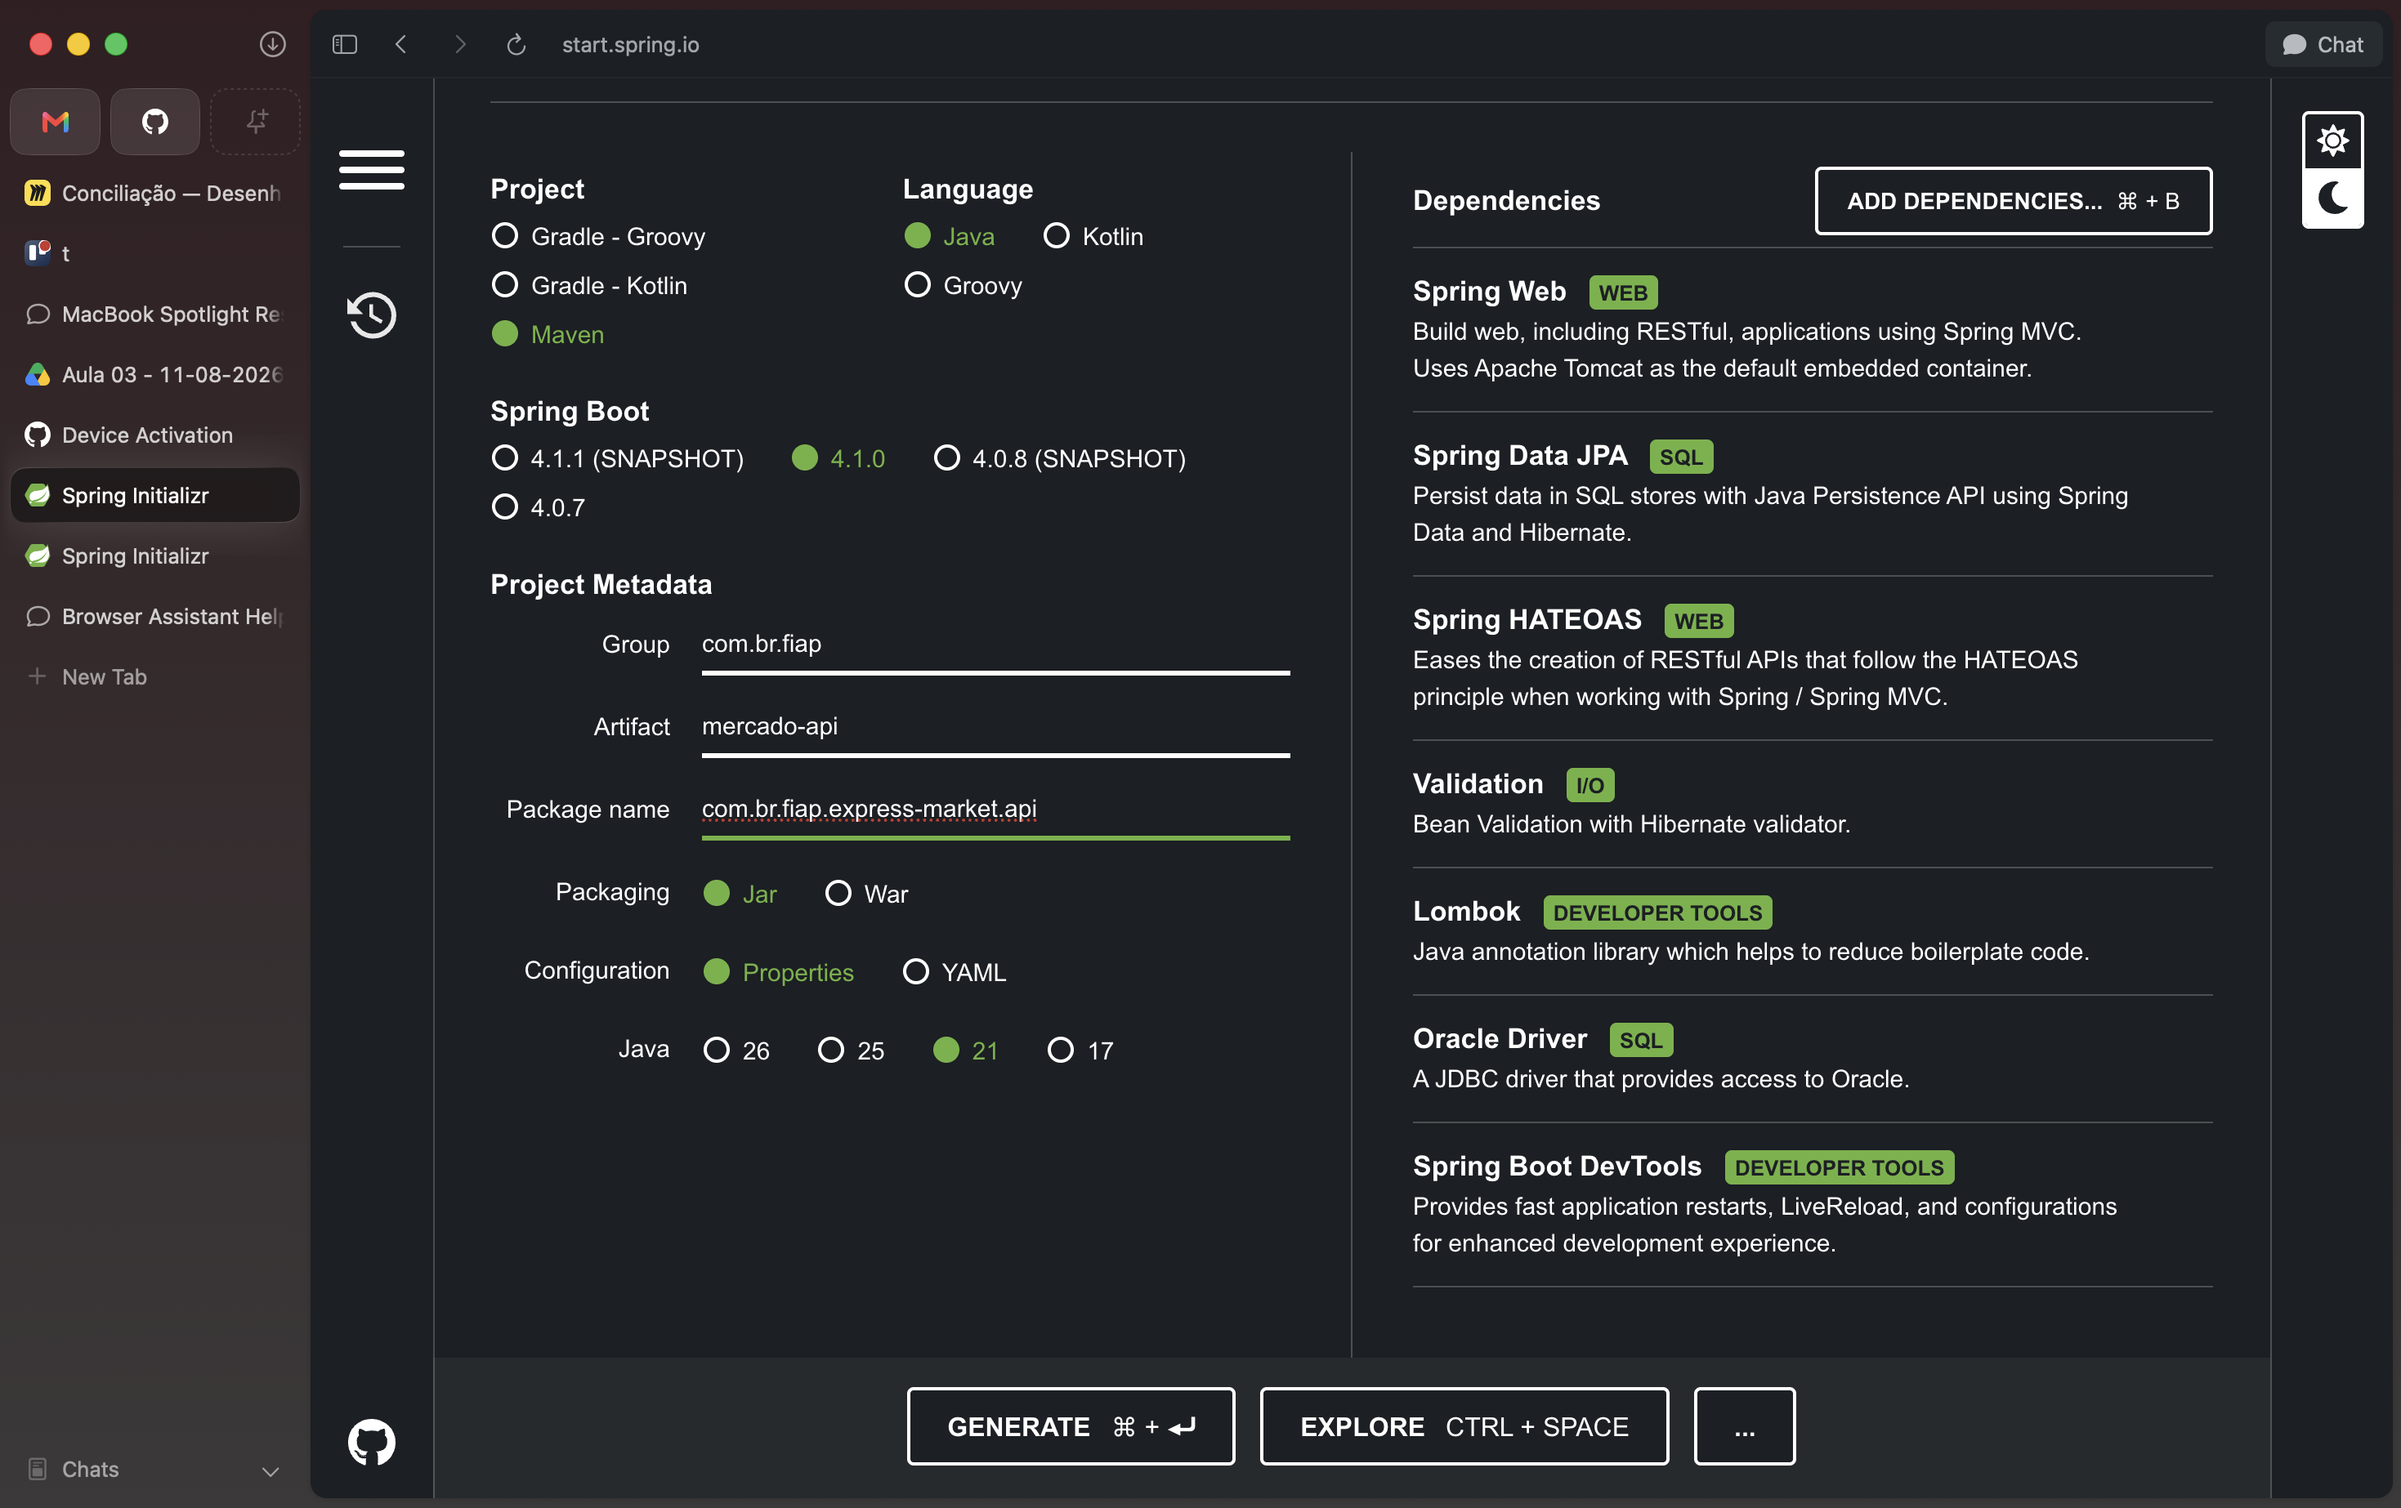
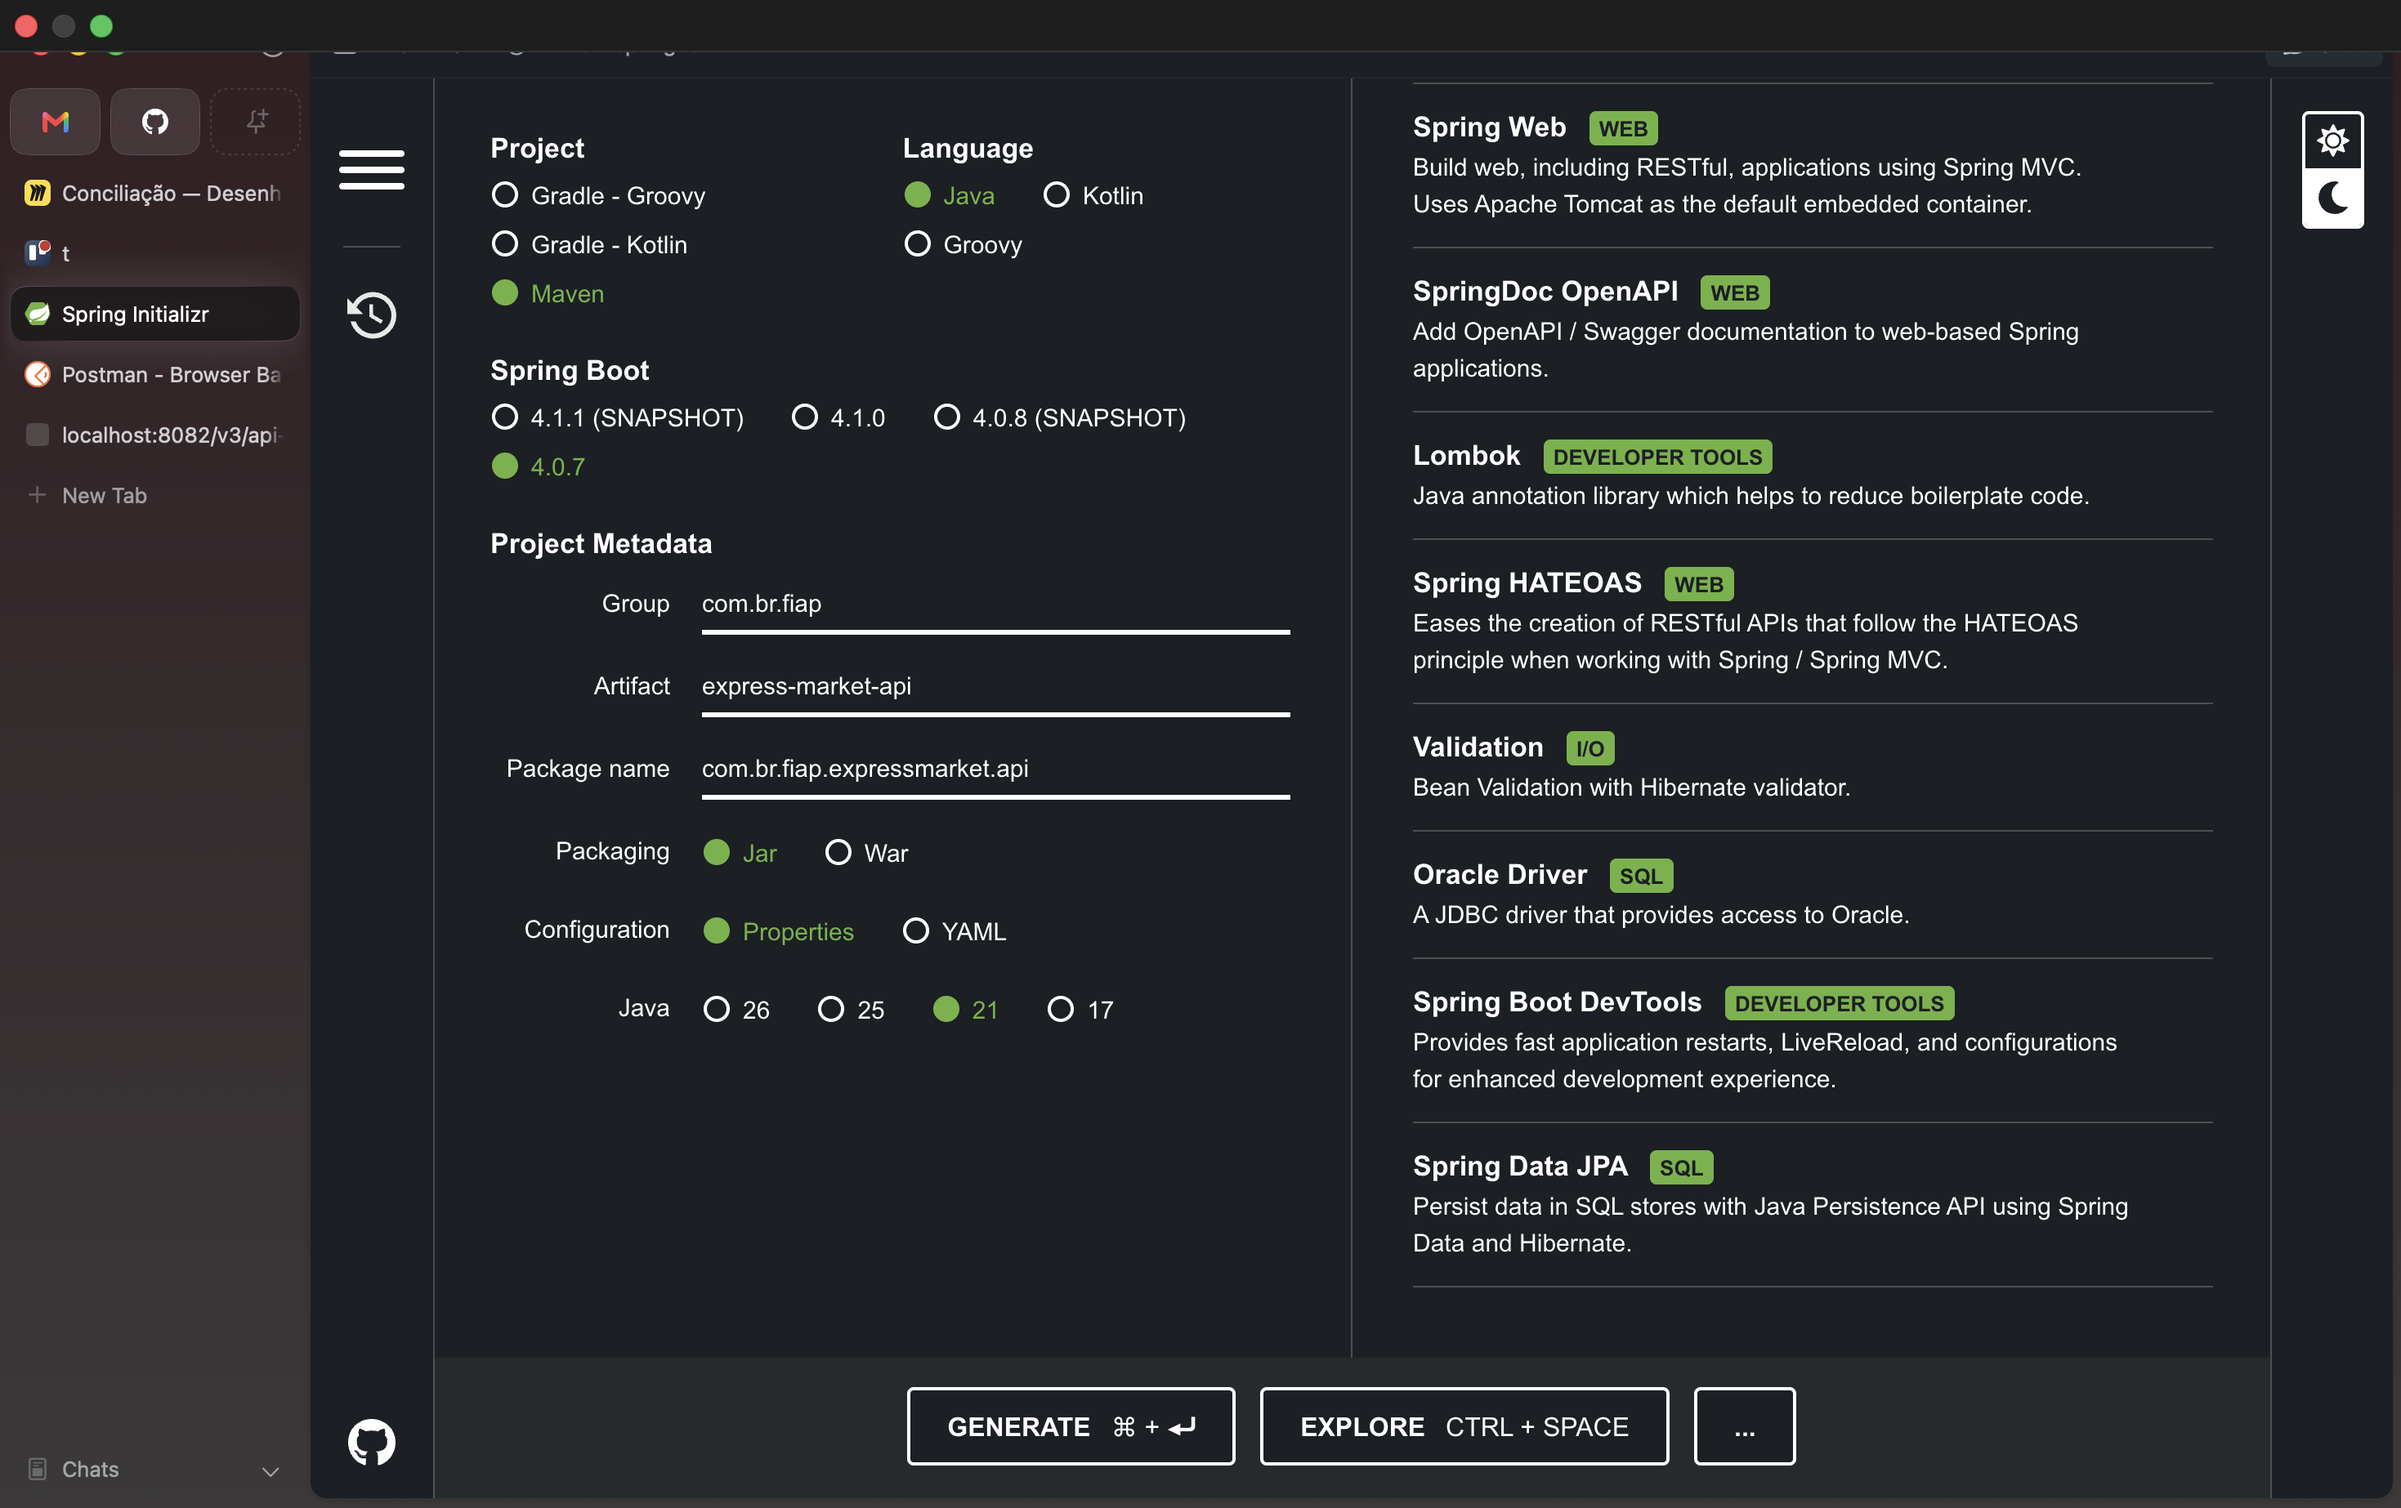
docs: atualiza README, print do Initializr e integrantes

diff --git a/README.md b/README.md
@@ -42,26 +42,30 @@ API REST desenvolvida com Spring Boot para gerenciamento do estoque de um mercad
 ```
 src/
 └── main/
-    ├── java/com/br/fiap/express_market/api/
+    ├── java/com/br/fiap/expressmarket/api/
     │   ├── ExpressMarketApiApplication.java   # Classe principal
+    │   ├── assembler/
+    │   │   └── ProdutoModelAssembler.java     # Montagem dos links HATEOAS
     │   ├── config/
-    │   │   └── CorsConfig.java               # Liberação de origens (CORS)
+    │   │   ├── CorsConfig.java                # Liberação de origens (CORS)
+    │   │   └── OpenApiConfig.java             # Metadados da Swagger UI
     │   ├── controller/
-    │   │   └── ProdutoController.java        # Endpoints REST
+    │   │   └── ProdutoController.java         # Endpoints REST
     │   ├── dto/
-    │   │   ├── ProdutoRequest.java           # Corpo do POST e do PUT
-    │   │   ├── ProdutoPatchRequest.java      # Corpo do PATCH (campos opcionais)
-    │   │   └── ProdutoResponse.java          # Representação devolvida pela API
+    │   │   ├── ProdutoRequest.java            # Corpo do POST e do PUT
+    │   │   ├── ProdutoPatchRequest.java       # Corpo do PATCH (campos opcionais)
+    │   │   └── ProdutoResponse.java           # Representação devolvida pela API
     │   ├── entity/
-    │   │   └── Produto.java                  # Entidade JPA
+    │   │   └── Produto.java                   # Entidade JPA
     │   ├── exception/
-    │   │   └── GlobalExceptionHandler.java   # Tradução de erros de validação
-    │   ├── hateoas/
-    │   │   └── ProdutoModelAssembler.java    # Montagem dos links HATEOAS
+    │   │   └── NotFoundException.java         # Recurso inexistente
+    │   ├── handler/
+    │   │   ├── GlobalExceptionHandler.java    # Traduz exceções em respostas HTTP
+    │   │   └── ErrorResponse.java             # Corpo das respostas de erro
     │   ├── repository/
-    │   │   └── ProdutoRepository.java        # Interface de acesso a dados
+    │   │   └── ProdutoRepository.java         # Interface de acesso a dados
     │   └── service/
-    │       └── ProdutoService.java           # Regras de negócio
+    │       └── ProdutoService.java            # Regras de negócio
     └── resources/
         └── application.properties            # Configurações da aplicação
 ```
@@ -363,10 +367,32 @@ Corpo inválido é traduzido pelo `GlobalExceptionHandler` em uma resposta legí
   "timestamp": "2026-08-13T22:10:31.482Z",
   "status": 400,
   "error": "Bad Request",
+  "message": "Falha de validação nos campos enviados.",
+  "path": "/mercado",
   "errors": {
     "nome": "O nome deve ter entre 3 e 50 caracteres",
     "preco": "O preço deve ser um valor positivo"
   }
+}
+```
+
+---
+
+### Recurso inexistente
+
+Qualquer operação sobre um id que não existe devolve `404` no mesmo formato. O campo `errors` só aparece em falhas de validação, então aqui ele é omitido.
+
+**Requisição** — `GET /mercado/999999`
+
+**Resposta** — `404 Not Found`
+
+```json
+{
+  "timestamp": "2026-08-13T22:11:04.118Z",
+  "status": 404,
+  "error": "Not Found",
+  "message": "Produto não encontrado(a): id 999999",
+  "path": "/mercado/999999"
 }
 ```
 
